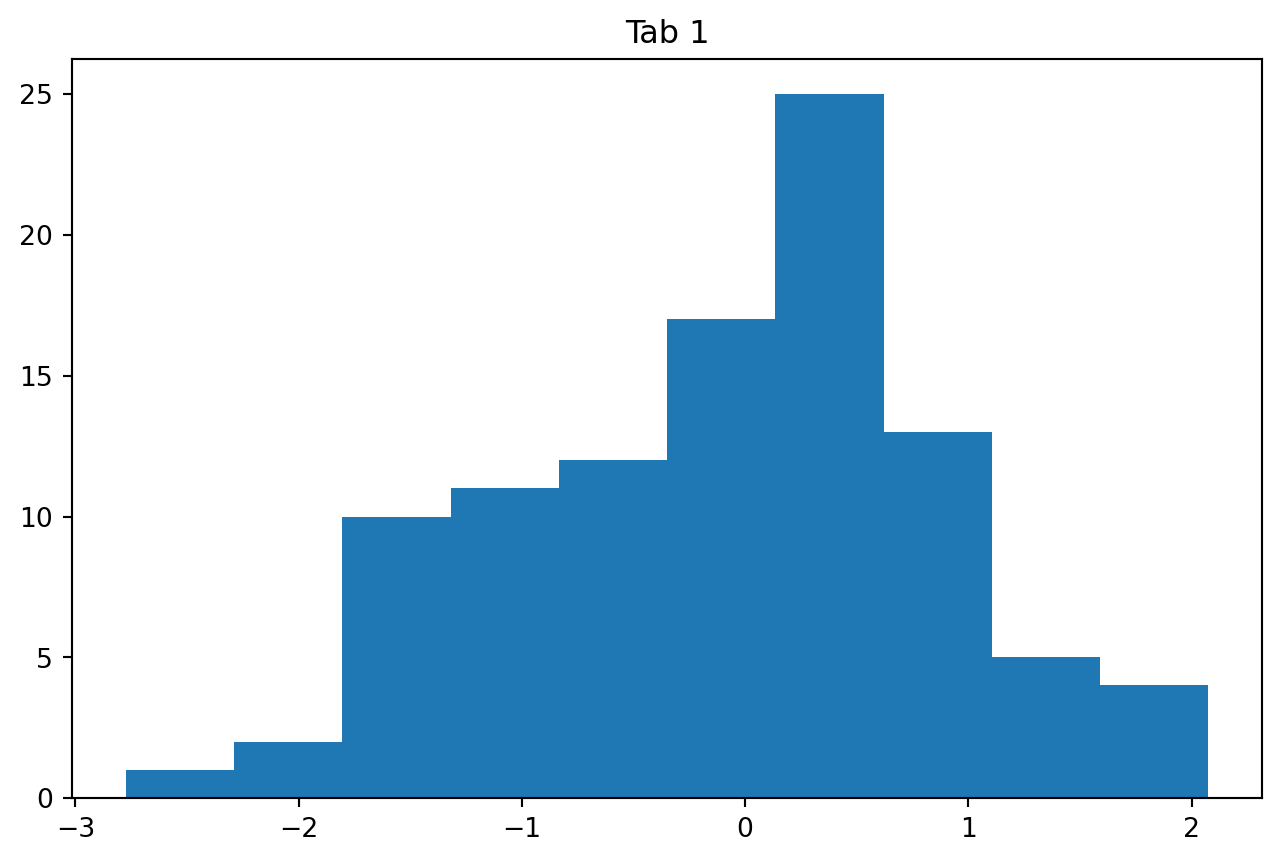
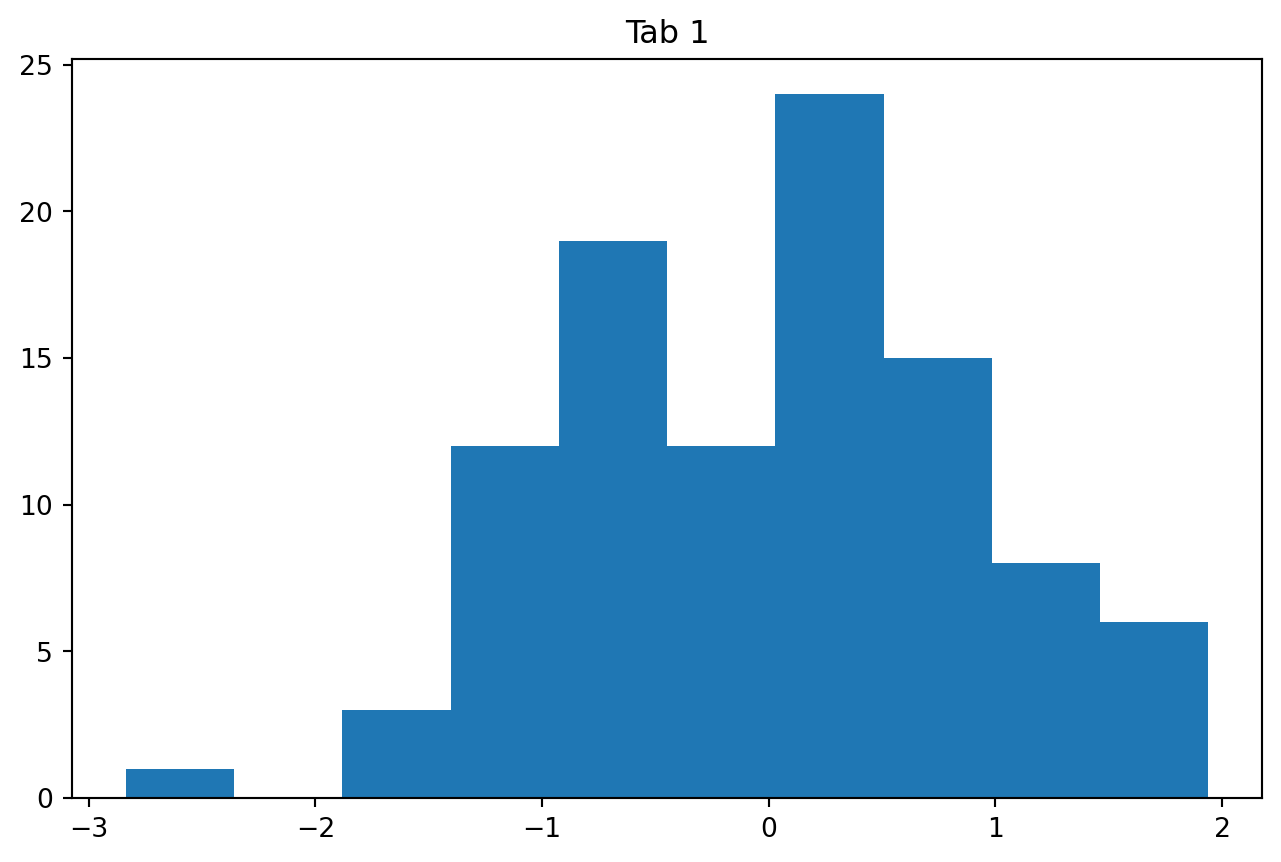
site

diff --git a/docs/index.html b/docs/index.html
@@ -140,7 +140,7 @@ grid-auto-rows: minmax(0, 1fr);">
 <div class="card cell html-fill-item html-fill-container bslib-card" data-title="Ames Map 집값 지도" data-bslib-card-init="" data-require-bs-caller="card()" data-full-screen="false">
 <div class="card-header"><div class="card-title">Ames Map 집값 지도</div></div>
 <div class="card-body html-fill-item html-fill-container" style="padding: 0px;">
-<div class="cell-output cell-output-display html-fill-item html-fill-container" data-execution_count="242">
+<div class="cell-output cell-output-display html-fill-item html-fill-container" data-execution_count="1">
 
         <iframe width="100%" height="600px" src="maps/ames_house_price_map.html" frameborder="0" allowfullscreen=""></iframe>
         
@@ -216,42 +216,42 @@ grid-auto-rows: minmax(0, 1fr);">
 
 
 <div class="tab-content html-fill-item html-fill-container" data-tabset-id="card-tabset-8"><div class="tab-pane active show html-fill-item html-fill-container" role="tabpanel" id="card-tabset-8-1"><div class="card-body html-fill-item html-fill-container" data-title="Chart 1">
-<div class="cell-output cell-output-display html-fill-item html-fill-container" data-execution_count="243">
-<pre><code>(array([ 1.,  5.,  4., 20., 26., 11., 17.,  9.,  3.,  4.]),
- array([-2.21002328, -1.74653781, -1.28305233, -0.81956685, -0.35608138,
-         0.1074041 ,  0.57088958,  1.03437506,  1.49786053,  1.96134601,
-         2.42483149]),
+<div class="cell-output cell-output-display html-fill-item html-fill-container" data-execution_count="2">
+<pre><code>(array([ 3.,  1., 12., 18., 16., 24., 12.,  9.,  3.,  2.]),
+ array([-2.70961804, -2.16122381, -1.61282959, -1.06443536, -0.51604113,
+         0.0323531 ,  0.58074733,  1.12914155,  1.67753578,  2.22593001,
+         2.77432424]),
  &lt;BarContainer object of 10 artists&gt;)</code></pre>
 </div>
-<div class="cell-output cell-output-display html-fill-item html-fill-container" data-execution_count="243">
+<div class="cell-output cell-output-display html-fill-item html-fill-container" data-execution_count="2">
 <pre><code>Text(0.5, 1.0, 'Tab 1')</code></pre>
 </div>
 <div class="cell-output cell-output-display html-fill-item html-fill-container">
 <img src="index_files/figure-html/cell-3-output-3.png" class="quarto-dashboard-img-contain">
 </div>
 </div></div><div class="tab-pane html-fill-item html-fill-container" role="tabpanel" id="card-tabset-8-2"><div class="card-body html-fill-item html-fill-container" data-title="Chart 2">
-<div class="cell-output cell-output-display html-fill-item html-fill-container" data-execution_count="244">
-<pre><code>(array([ 7.,  9., 15., 22., 22., 12.,  8.,  4.,  0.,  1.]),
- array([-2.24683619, -1.67845149, -1.11006679, -0.5416821 ,  0.0267026 ,
-         0.5950873 ,  1.16347199,  1.73185669,  2.30024139,  2.86862608,
-         3.43701078]),
+<div class="cell-output cell-output-display html-fill-item html-fill-container" data-execution_count="3">
+<pre><code>(array([ 1.,  5.,  8., 11., 15., 26., 17.,  6.,  7.,  4.]),
+ array([-2.398318  , -1.93755797, -1.47679794, -1.01603791, -0.55527788,
+        -0.09451785,  0.36624219,  0.82700222,  1.28776225,  1.74852228,
+         2.20928231]),
  &lt;BarContainer object of 10 artists&gt;)</code></pre>
 </div>
-<div class="cell-output cell-output-display html-fill-item html-fill-container" data-execution_count="244">
+<div class="cell-output cell-output-display html-fill-item html-fill-container" data-execution_count="3">
 <pre><code>Text(0.5, 1.0, 'Tab 1')</code></pre>
 </div>
 <div class="cell-output cell-output-display html-fill-item html-fill-container">
 <img src="index_files/figure-html/cell-4-output-3.png" class="quarto-dashboard-img-contain">
 </div>
 </div></div><div class="tab-pane html-fill-item html-fill-container" role="tabpanel" id="card-tabset-8-3"><div class="card-body html-fill-item html-fill-container" data-title="Chart 3">
-<div class="cell-output cell-output-display html-fill-item html-fill-container" data-execution_count="245">
-<pre><code>(array([ 1.,  0.,  2.,  9., 11., 26., 22., 16.,  6.,  7.]),
- array([-3.72367425, -3.10470341, -2.48573256, -1.86676172, -1.24779088,
-        -0.62882003, -0.00984919,  0.60912165,  1.2280925 ,  1.84706334,
-         2.46603418]),
+<div class="cell-output cell-output-display html-fill-item html-fill-container" data-execution_count="4">
+<pre><code>(array([ 3.,  2., 11., 24., 20., 25.,  8.,  4.,  1.,  2.]),
+ array([-2.57085967, -1.98895416, -1.40704865, -0.82514314, -0.24323762,
+         0.33866789,  0.9205734 ,  1.50247892,  2.08438443,  2.66628994,
+         3.24819545]),
  &lt;BarContainer object of 10 artists&gt;)</code></pre>
 </div>
-<div class="cell-output cell-output-display html-fill-item html-fill-container" data-execution_count="245">
+<div class="cell-output cell-output-display html-fill-item html-fill-container" data-execution_count="4">
 <pre><code>Text(0.5, 1.0, 'Tab 1')</code></pre>
 </div>
 <div class="cell-output cell-output-display html-fill-item html-fill-container">
@@ -273,42 +273,42 @@ grid-auto-rows: minmax(0, 1fr);">
 
 
 <div class="tab-content html-fill-item html-fill-container" data-tabset-id="card-tabset-9"><div class="tab-pane active show html-fill-item html-fill-container" role="tabpanel" id="card-tabset-9-1"><div class="card-body html-fill-item html-fill-container" data-title="Chart 1">
-<div class="cell-output cell-output-display html-fill-item html-fill-container" data-execution_count="246">
-<pre><code>(array([ 2.,  4.,  4.,  9., 20., 17., 18., 16.,  6.,  4.]),
- array([-2.89414167, -2.36256661, -1.83099155, -1.29941648, -0.76784142,
-        -0.23626636,  0.2953087 ,  0.82688376,  1.35845883,  1.89003389,
-         2.42160895]),
+<div class="cell-output cell-output-display html-fill-item html-fill-container" data-execution_count="5">
+<pre><code>(array([ 2.,  4., 15., 15., 21., 22., 11.,  7.,  2.,  1.]),
+ array([-2.66481328, -2.07944726, -1.49408125, -0.90871523, -0.32334922,
+         0.26201679,  0.84738281,  1.43274882,  2.01811484,  2.60348085,
+         3.18884687]),
  &lt;BarContainer object of 10 artists&gt;)</code></pre>
 </div>
-<div class="cell-output cell-output-display html-fill-item html-fill-container" data-execution_count="246">
+<div class="cell-output cell-output-display html-fill-item html-fill-container" data-execution_count="5">
 <pre><code>Text(0.5, 1.0, 'Tab 1')</code></pre>
 </div>
 <div class="cell-output cell-output-display html-fill-item html-fill-container">
 <img src="index_files/figure-html/cell-6-output-3.png" class="quarto-dashboard-img-contain">
 </div>
 </div></div><div class="tab-pane html-fill-item html-fill-container" role="tabpanel" id="card-tabset-9-2"><div class="card-body html-fill-item html-fill-container" data-title="Chart 2">
-<div class="cell-output cell-output-display html-fill-item html-fill-container" data-execution_count="247">
-<pre><code>(array([ 8.,  9., 20., 21., 16., 12.,  8.,  4.,  1.,  1.]),
- array([-2.04590499, -1.48506725, -0.92422951, -0.36339177,  0.19744598,
-         0.75828372,  1.31912146,  1.8799592 ,  2.44079695,  3.00163469,
-         3.56247243]),
+<div class="cell-output cell-output-display html-fill-item html-fill-container" data-execution_count="6">
+<pre><code>(array([ 2.,  2.,  9.,  9., 19., 27., 16.,  8.,  3.,  5.]),
+ array([-3.34067533, -2.71123265, -2.08178997, -1.45234729, -0.82290461,
+        -0.19346193,  0.43598075,  1.06542343,  1.69486611,  2.32430879,
+         2.95375147]),
  &lt;BarContainer object of 10 artists&gt;)</code></pre>
 </div>
-<div class="cell-output cell-output-display html-fill-item html-fill-container" data-execution_count="247">
+<div class="cell-output cell-output-display html-fill-item html-fill-container" data-execution_count="6">
 <pre><code>Text(0.5, 1.0, 'Tab 1')</code></pre>
 </div>
 <div class="cell-output cell-output-display html-fill-item html-fill-container">
 <img src="index_files/figure-html/cell-7-output-3.png" class="quarto-dashboard-img-contain">
 </div>
 </div></div><div class="tab-pane html-fill-item html-fill-container" role="tabpanel" id="card-tabset-9-3"><div class="card-body html-fill-item html-fill-container" data-title="Chart 3">
-<div class="cell-output cell-output-display html-fill-item html-fill-container" data-execution_count="248">
-<pre><code>(array([ 2.,  9., 17., 16., 13., 15., 12., 13.,  1.,  2.]),
- array([-1.96284962, -1.5164506 , -1.07005158, -0.62365256, -0.17725353,
-         0.26914549,  0.71554451,  1.16194353,  1.60834255,  2.05474158,
-         2.5011406 ]),
+<div class="cell-output cell-output-display html-fill-item html-fill-container" data-execution_count="7">
+<pre><code>(array([10.,  7., 12., 15., 21., 11., 10.,  6.,  5.,  3.]),
+ array([-1.74740738, -1.3265029 , -0.90559842, -0.48469395, -0.06378947,
+         0.357115  ,  0.77801948,  1.19892395,  1.61982843,  2.04073291,
+         2.46163738]),
  &lt;BarContainer object of 10 artists&gt;)</code></pre>
 </div>
-<div class="cell-output cell-output-display html-fill-item html-fill-container" data-execution_count="248">
+<div class="cell-output cell-output-display html-fill-item html-fill-container" data-execution_count="7">
 <pre><code>Text(0.5, 1.0, 'Tab 1')</code></pre>
 </div>
 <div class="cell-output cell-output-display html-fill-item html-fill-container">
@@ -335,42 +335,42 @@ grid-auto-rows: minmax(0, 1fr);">
 
 
 <div class="tab-content html-fill-item html-fill-container" data-tabset-id="card-tabset-10"><div class="tab-pane active show html-fill-item html-fill-container" role="tabpanel" id="card-tabset-10-1"><div class="card-body html-fill-item html-fill-container" data-title="Chart 1">
-<div class="cell-output cell-output-display html-fill-item html-fill-container" data-execution_count="249">
-<pre><code>(array([ 3.,  2., 13., 12., 17., 18., 15., 11.,  6.,  3.]),
- array([-2.28799474, -1.81789208, -1.34778942, -0.87768675, -0.40758409,
-         0.06251857,  0.53262124,  1.0027239 ,  1.47282656,  1.94292923,
-         2.41303189]),
+<div class="cell-output cell-output-display html-fill-item html-fill-container" data-execution_count="8">
+<pre><code>(array([ 4.,  3., 11., 18., 11., 15., 12., 15.,  8.,  3.]),
+ array([-2.30355359, -1.84704878, -1.39054396, -0.93403914, -0.47753432,
+        -0.0210295 ,  0.43547532,  0.89198014,  1.34848496,  1.80498978,
+         2.2614946 ]),
  &lt;BarContainer object of 10 artists&gt;)</code></pre>
 </div>
-<div class="cell-output cell-output-display html-fill-item html-fill-container" data-execution_count="249">
+<div class="cell-output cell-output-display html-fill-item html-fill-container" data-execution_count="8">
 <pre><code>Text(0.5, 1.0, 'Tab 1')</code></pre>
 </div>
 <div class="cell-output cell-output-display html-fill-item html-fill-container">
 <img src="index_files/figure-html/cell-9-output-3.png" class="quarto-dashboard-img-contain">
 </div>
 </div></div><div class="tab-pane html-fill-item html-fill-container" role="tabpanel" id="card-tabset-10-2"><div class="card-body html-fill-item html-fill-container" data-title="Chart 2">
-<div class="cell-output cell-output-display html-fill-item html-fill-container" data-execution_count="250">
-<pre><code>(array([ 1.,  7.,  9., 17., 25., 19., 12.,  5.,  4.,  1.]),
- array([-2.48644011, -1.95694615, -1.42745219, -0.89795823, -0.36846427,
-         0.16102969,  0.69052365,  1.22001762,  1.74951158,  2.27900554,
-         2.8084995 ]),
+<div class="cell-output cell-output-display html-fill-item html-fill-container" data-execution_count="9">
+<pre><code>(array([ 2.,  0.,  2.,  4., 18., 14., 26., 18.,  9.,  7.]),
+ array([-3.4430603 , -2.90116943, -2.35927855, -1.81738768, -1.27549681,
+        -0.73360594, -0.19171507,  0.3501758 ,  0.89206667,  1.43395754,
+         1.97584841]),
  &lt;BarContainer object of 10 artists&gt;)</code></pre>
 </div>
-<div class="cell-output cell-output-display html-fill-item html-fill-container" data-execution_count="250">
+<div class="cell-output cell-output-display html-fill-item html-fill-container" data-execution_count="9">
 <pre><code>Text(0.5, 1.0, 'Tab 1')</code></pre>
 </div>
 <div class="cell-output cell-output-display html-fill-item html-fill-container">
 <img src="index_files/figure-html/cell-10-output-3.png" class="quarto-dashboard-img-contain">
 </div>
 </div></div><div class="tab-pane html-fill-item html-fill-container" role="tabpanel" id="card-tabset-10-3"><div class="card-body html-fill-item html-fill-container" data-title="Chart 3">
-<div class="cell-output cell-output-display html-fill-item html-fill-container" data-execution_count="251">
-<pre><code>(array([ 3.,  5., 15., 12., 16., 19.,  9., 15.,  4.,  2.]),
- array([-2.09927895e+00, -1.67911449e+00, -1.25895002e+00, -8.38785562e-01,
-        -4.18621099e-01,  1.54336456e-03,  4.21707828e-01,  8.41872291e-01,
-         1.26203675e+00,  1.68220122e+00,  2.10236568e+00]),
+<div class="cell-output cell-output-display html-fill-item html-fill-container" data-execution_count="10">
+<pre><code>(array([ 1.,  6.,  9., 19., 20., 16., 16.,  8.,  3.,  2.]),
+ array([-2.59984537, -2.04919649, -1.4985476 , -0.94789871, -0.39724983,
+         0.15339906,  0.70404795,  1.25469683,  1.80534572,  2.35599461,
+         2.9066435 ]),
  &lt;BarContainer object of 10 artists&gt;)</code></pre>
 </div>
-<div class="cell-output cell-output-display html-fill-item html-fill-container" data-execution_count="251">
+<div class="cell-output cell-output-display html-fill-item html-fill-container" data-execution_count="10">
 <pre><code>Text(0.5, 1.0, 'Tab 1')</code></pre>
 </div>
 <div class="cell-output cell-output-display html-fill-item html-fill-container">
@@ -392,42 +392,42 @@ grid-auto-rows: minmax(0, 1fr);">
 
 
 <div class="tab-content html-fill-item html-fill-container" data-tabset-id="card-tabset-11"><div class="tab-pane active show html-fill-item html-fill-container" role="tabpanel" id="card-tabset-11-1"><div class="card-body html-fill-item html-fill-container" data-title="Chart 1">
-<div class="cell-output cell-output-display html-fill-item html-fill-container" data-execution_count="252">
-<pre><code>(array([ 1.,  1.,  5., 14., 28., 15., 22., 10.,  2.,  2.]),
- array([-2.90848694, -2.34859552, -1.7887041 , -1.22881268, -0.66892126,
-        -0.10902984,  0.45086158,  1.010753  ,  1.57064442,  2.13053584,
-         2.69042726]),
+<div class="cell-output cell-output-display html-fill-item html-fill-container" data-execution_count="11">
+<pre><code>(array([ 5.,  8., 15., 12., 21., 14., 11.,  9.,  4.,  1.]),
+ array([-1.91607013, -1.46726471, -1.0184593 , -0.56965388, -0.12084846,
+         0.32795696,  0.77676237,  1.22556779,  1.67437321,  2.12317863,
+         2.57198405]),
  &lt;BarContainer object of 10 artists&gt;)</code></pre>
 </div>
-<div class="cell-output cell-output-display html-fill-item html-fill-container" data-execution_count="252">
+<div class="cell-output cell-output-display html-fill-item html-fill-container" data-execution_count="11">
 <pre><code>Text(0.5, 1.0, 'Tab 1')</code></pre>
 </div>
 <div class="cell-output cell-output-display html-fill-item html-fill-container">
 <img src="index_files/figure-html/cell-12-output-3.png" class="quarto-dashboard-img-contain">
 </div>
 </div></div><div class="tab-pane html-fill-item html-fill-container" role="tabpanel" id="card-tabset-11-2"><div class="card-body html-fill-item html-fill-container" data-title="Chart 2">
-<div class="cell-output cell-output-display html-fill-item html-fill-container" data-execution_count="253">
-<pre><code>(array([ 1.,  2., 10., 11., 12., 17., 25., 13.,  5.,  4.]),
- array([-2.77357376, -2.2888327 , -1.80409164, -1.31935058, -0.83460952,
-        -0.34986845,  0.13487261,  0.61961367,  1.10435473,  1.58909579,
-         2.07383685]),
+<div class="cell-output cell-output-display html-fill-item html-fill-container" data-execution_count="12">
+<pre><code>(array([ 1.,  0.,  3., 12., 19., 12., 24., 15.,  8.,  6.]),
+ array([-2.83562924, -2.35820225, -1.88077527, -1.40334829, -0.92592131,
+        -0.44849433,  0.02893265,  0.50635964,  0.98378662,  1.4612136 ,
+         1.93864058]),
  &lt;BarContainer object of 10 artists&gt;)</code></pre>
 </div>
-<div class="cell-output cell-output-display html-fill-item html-fill-container" data-execution_count="253">
+<div class="cell-output cell-output-display html-fill-item html-fill-container" data-execution_count="12">
 <pre><code>Text(0.5, 1.0, 'Tab 1')</code></pre>
 </div>
 <div class="cell-output cell-output-display html-fill-item html-fill-container">
 <img src="index_files/figure-html/cell-13-output-3.png" class="quarto-dashboard-img-contain">
 </div>
 </div></div><div class="tab-pane html-fill-item html-fill-container" role="tabpanel" id="card-tabset-11-3"><div class="card-body html-fill-item html-fill-container" data-title="Chart 3">
-<div class="cell-output cell-output-display html-fill-item html-fill-container" data-execution_count="254">
-<pre><code>(array([ 4.,  7.,  9., 11., 25., 17., 10.,  6.,  7.,  4.]),
- array([-2.47147792, -1.98499685, -1.49851577, -1.01203469, -0.52555362,
-        -0.03907254,  0.44740853,  0.93388961,  1.42037068,  1.90685176,
-         2.39333283]),
+<div class="cell-output cell-output-display html-fill-item html-fill-container" data-execution_count="13">
+<pre><code>(array([ 2.,  2.,  8., 10., 20., 16., 19., 10.,  9.,  4.]),
+ array([-3.0636191 , -2.52777815, -1.99193719, -1.45609624, -0.92025528,
+        -0.38441433,  0.15142662,  0.68726758,  1.22310853,  1.75894949,
+         2.29479044]),
  &lt;BarContainer object of 10 artists&gt;)</code></pre>
 </div>
-<div class="cell-output cell-output-display html-fill-item html-fill-container" data-execution_count="254">
+<div class="cell-output cell-output-display html-fill-item html-fill-container" data-execution_count="13">
 <pre><code>Text(0.5, 1.0, 'Tab 1')</code></pre>
 </div>
 <div class="cell-output cell-output-display html-fill-item html-fill-container">
